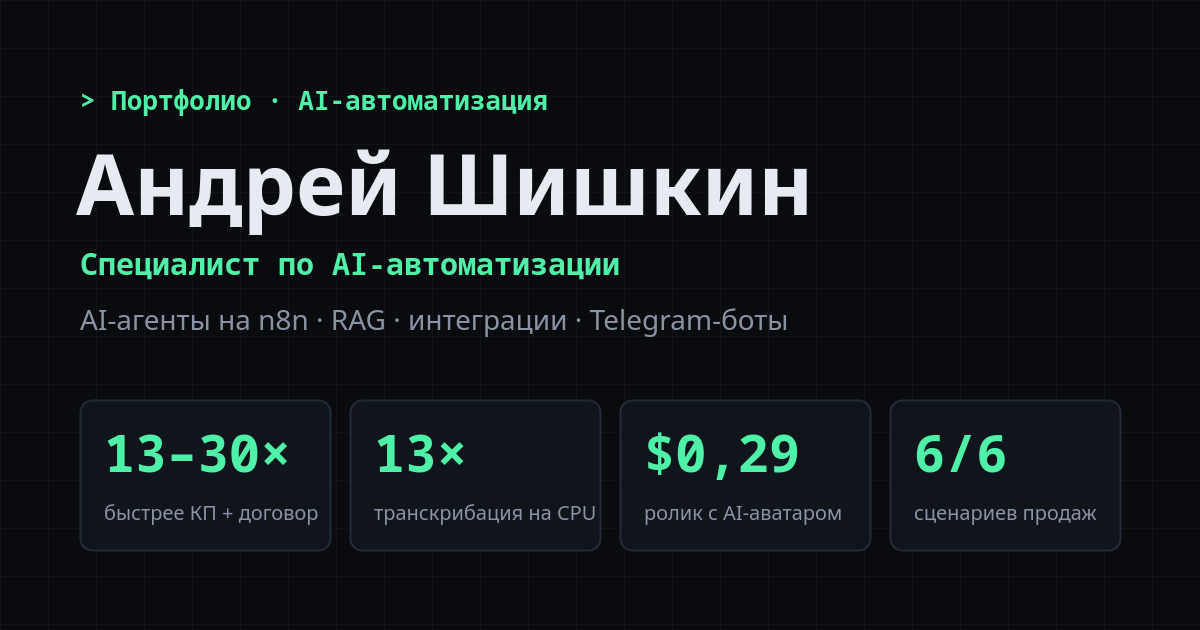
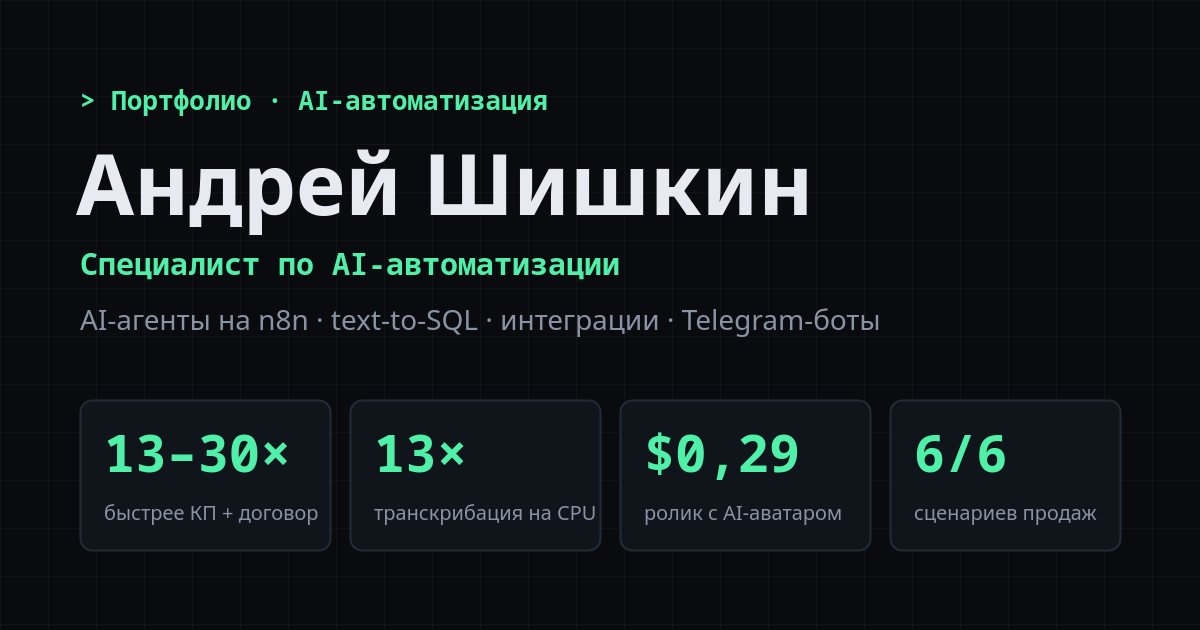
Describe seller agent search as text-to-SQL, drop RAG claims
The search_price_list tool is a Postgres Tool where the LLM writes
SELECT queries; there are no embeddings or vector store. Also drop the
read-only claim for the analytics agent: the DB role is not read-only,
only the tool prompt forbids writes.

Changed region(s): [[0.2775, 0.4825, 0.74, 0.5429]]

diff --git a/index.html b/index.html
@@ -4,7 +4,7 @@
   <meta charset="utf-8">
   <meta name="viewport" content="width=device-width, initial-scale=1">
   <title>Андрей Шишкин — AI-автоматизация бизнес-процессов</title>
-  <meta name="description" content="Портфолио специалиста по AI-автоматизации: AI-агенты на n8n, RAG, интеграции с CRM и Telegram, генерация документов, транскрибация. Схемы воркфлоу, переписки с ботами и результаты работы.">
+  <meta name="description" content="Портфолио специалиста по AI-автоматизации: AI-агенты на n8n, text-to-SQL, интеграции с CRM и Telegram, генерация документов, транскрибация. Схемы воркфлоу, переписки с ботами и результаты работы.">
   <link rel="canonical" href="https://forumgm18.github.io/avs-portfolio-ai/">
   <meta property="og:type" content="website">
   <meta property="og:locale" content="ru_RU">
